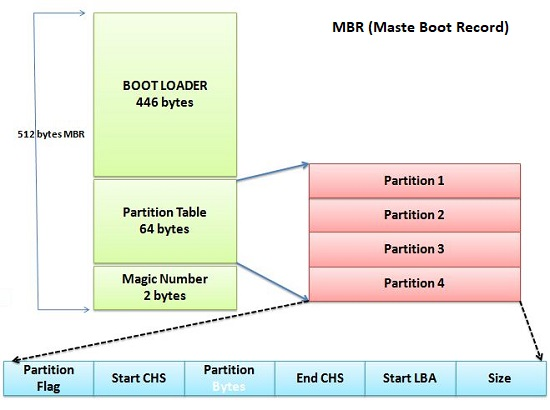
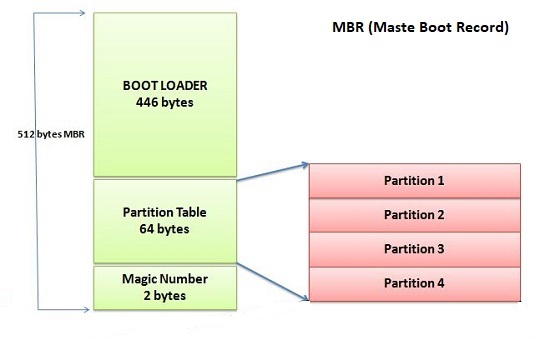
GitBook: [master] one page and 3 assets modified

diff --git a/1041-create-partitions-and-filesystems.md b/1041-create-partitions-and-filesystems.md
@@ -32,19 +32,21 @@ The fundamental purposes of the BIOS are to initialize and test the system hardw
 
 ### UEFI
 
-The Unified Extensible Firmware Interface \(UEFI\) is a specification that defines a software interface between an operating system and platform firmware. UEFI is meant to replace the Basic Input/Output System \(BIOS\) firmware interface. In practice, most UEFI images provide legacy support for BIOS services. UEFI can support remote diagnostics and repair of computers, even without another operating system.
+The Unified Extensible Firmware Interface \(UEFI\) is a specification that defines a software interface between an operating system and platform firmware. UEFI is meant to replace the Basic Input/Output System \(BIOS\) firmware interface. In practice, most UEFI images provide legacy support for BIOS services. UEFI can support remote diagnostics and repair of computers, even without another operating system!
 
+{% hint style="info" %}
 > The original EFI \(Extensible Firmware Interface\) specification was developed by Intel.
+{% endhint %}
 
 ### MBR
 
-A master boot record \(MBR\) is a special type of boot sector at the very beginning of partitioned computer mass storage devices like fixed disks or removable drives. The concept of MBRs was publicly introduced in 1983 with PC DOS 2.0.
+A master boot record \(MBR\) is a special type of boot sector at the very beginning of partitioned computer mass storage devices like fixed disks or removable drives. 
 
 The MBR holds the information on how the logical partitions, containing file systems, are organized on that medium. Besides that, the MBR also contains executable code to function as a loader for the installed operating system—usually by passing control over to the loader's second stage. This MBR code is usually referred to as a boot loader.
 
-![](.gitbook/assets/creatpartitionfs-mbr.png)
+![](.gitbook/assets/bootloader-mbr.jpg)
 
-The organization of the partition table in the MBR limits the maximum addressable storage space of a disk to 2 TB \(232 × 512 bytes\). Therefore, the MBR-based partitioning scheme is in the process of being superseded by the GUID Partition Table \(GPT\) scheme in new computers. A GPT can coexist with an MBR in order to provide some limited form of a backwards compatibility for older systems. try `xxd -l 512 /dev/sda`
+The organization of the partition table in the MBR limits the maximum addressable storage space of a disk to 2 TB. Therefore, the MBR-based partitioning scheme is in the process of being superseded by the GUID Partition Table \(GPT\) scheme in new computers. A GPT can coexist with an MBR in order to provide some limited form of a backwards compatibility for older systems. try `xxd -l 512 /dev/sda`
 
 ### GPT
 
@@ -384,18 +386,22 @@ Linux File System or any file system generally is a layer which is under the ope
 
 **Ext, Ext2, Ext3, Ext4, JFS, XFS, btrfs and swap**
 
-> Which File System is perfect for you?
->
-> One important attribute of a filesystem is journaling, which allows for much faster recovery after a system crash. Generally, a journaling filesystem is preferred over a non-journaling one when you have a choice. You may also want to consider whether your chosen filesystem supports _Security Enhanced Linux_ \(or SELinux\). Two newer file systems, ZFS and btrfs, use a technique called Copy on Write to improve data integrity and address large storage needs.
+One important attribute of a filesystem is journaling
 
-{% hint style="info" %}
-What is journaling?
+**What is journaling?**
 
 Journaling is designed to prevent data corruption from crashes and sudden power loss. Let’s say your system is partway through writing a file to the disk and it suddenly loses power. Without a journal, your computer would have no idea if the file was completely written to disk. The file would remain there on disk, corrupt.
+
+![](.gitbook/assets/createpartition-journaling.jpg)
 
 With a journal, your computer would note that it was going to write a certain file to disk in the journal, write that file to disk, and then remove that job from the journal. If the power went out partway through writing the file, Linux would check the file system’s journal when it boots up and resume any partially completed jobs. This prevents data loss and file corruption.
 
 Journaling does slow disk write performance down a tiny bit, but it’s well-worth it on a desktop or laptop.
+
+{% hint style="success" %}
+Which File System is perfect for you?
+
+ Generally, a journaling filesystem is preferred over a non-journaling one when you have a choice. You may also want to consider whether your chosen filesystem supports _Security Enhanced Linux_ \(or SELinux\). Two newer file systems, ZFS and btrfs, use a technique called Copy on Write to improve data integrity and address large storage needs. 
 {% endhint %}
 
 Following is a brief summary of the types you need to know about for the LPI exam**:**
@@ -452,10 +458,10 @@ Following is a brief summary of the types you need to know about for the LPI exa
       <td style="text-align:left">
         <p>The ext4 filesystem started as extensions to ext3 to address the demands
           of ever larger file systems by increasing storage limits and improving
-          performance. The ext4 filesystem, was included in the 2.6.28 kernel. Some
-          of the changes from ext3 are:</p>
+          performance. Some of the changes from ext3 are:</p>
         <ol>
           <li>Max file size <b>16GB to 16TB</b>.</li>
+          <li>was included in the<b> 2.6.28 kernel</b>.</li>
           <li>Ext4 file system have option to <b>Turn Off</b> journaling feature.</li>
           <li>Other features like <b>Fast FSCK</b> etc.</li>
         </ol>
@@ -483,11 +489,6 @@ Following is a brief summary of the types you need to know about for the LPI exa
         multiple devices.</td>
     </tr>
     <tr>
-      <td style="text-align:left">swap</td>
-      <td style="text-align:left">Swap space must be formatted for use as swap space, but it is not generally
-        considered a filesystem.</td>
-    </tr>
-    <tr>
       <td style="text-align:left">vfat</td>
       <td style="text-align:left">
         <p>(also known as <em>FAT32</em>) no journaling, lacks many features required
@@ -498,6 +499,11 @@ Following is a brief summary of the types you need to know about for the LPI exa
           such as execute permission, and you will lose any symbolic links that may
           have been stored in the archive.</p>
       </td>
+    </tr>
+    <tr>
+      <td style="text-align:left">swap</td>
+      <td style="text-align:left">Swap space must be formatted for use as swap space, but it is not generally
+        considered a filesystem.</td>
     </tr>
   </tbody>
 </table>Linux uses the `mkfs` command to create filesystems and `mkswap`command to make swap space.
